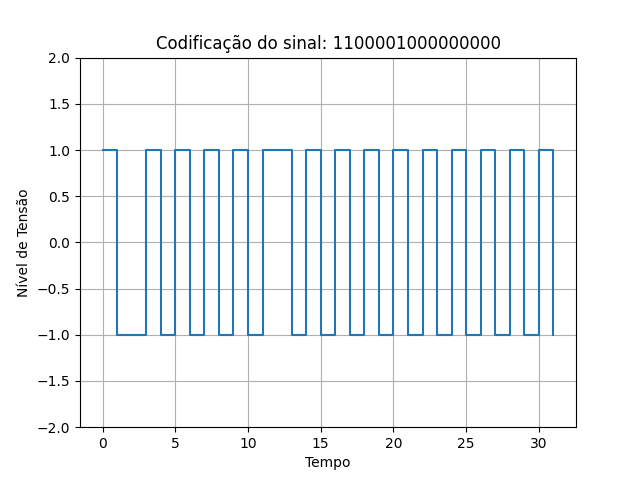
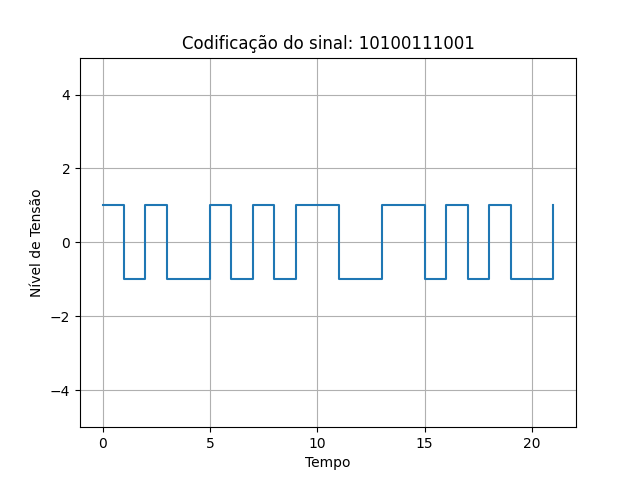
added the last line codes

diff --git a/Trabalho1/main.py b/Trabalho1/main.py
@@ -1,7 +1,7 @@
-from codificadores import b8zs, nrz_l, nrz_i, ami, pseudoternary, manchester, manchester_differential, hdb3, mlt_3
+from codificadores import b8zs, nrz_l, nrz_i, ami, pseudoternary, manchester, manchester_differential, hdb3, mlt_3, ternary_nrz, unipolar_rz
 from plot import plot_sinal
 
-bits = "1100001000000000"
+bits = "10100111001"
 sinal_b8zs = b8zs(bits)
 sinal_nrzl = nrz_l(bits)
 sinal_nrzi = nrz_i(bits)
@@ -11,6 +11,8 @@ sinal_man = manchester(bits)
 sinal_man_diff = manchester_differential(bits)
 sinal_hdb3 = hdb3(bits)
 sinal_mlt3 = mlt_3(bits)
+sinal_tnrz = ternary_nrz(bits)
+sinal_unipolar = unipolar_rz(bits)
 
 plot_sinal(sinal_b8zs, bits, 'B8ZS')
 plot_sinal(sinal_nrzl, bits, 'NRZ - L')
@@ -21,3 +23,5 @@ plot_sinal(sinal_man, bits, 'MANCHESTER')
 plot_sinal(sinal_man_diff, bits, 'MANCHESTER DIFFERENTIAL')
 plot_sinal(sinal_hdb3, bits, 'HDB3')
 plot_sinal(sinal_mlt3, bits, 'MLT - 3')
+plot_sinal(sinal_tnrz, bits, 'Ternary NRZ')
+plot_sinal(sinal_unipolar,bits, 'UNIPOLAR RZ')

diff --git a/Trabalho1/codificadores.py b/Trabalho1/codificadores.py
@@ -126,6 +126,35 @@ def mlt_3(bits: str) -> list[int]:
         result.append(levels[state_index])
     return result
 
+def ternary_nrz(data: str) -> list[int]:
+    result = []
+    last_level = 0
+
+    for bit in data:
+        if bit == '0':
+            if last_level >= 0:
+                last_level = -1
+            else:
+                last_level = 0
+        else:
+            if last_level <= 0:
+                last_level = 1
+            else:
+                last_level = 0
+        result.append(last_level)
+    return result
+
+def unipolar_rz(data: str) -> list[int]:
+
+    result = []
+
+    for bit in data:
+        if bit == '1':
+            result.extend([1, 0])
+        else: 
+            result.extend([0, 0])
+    
+    return result
 
 """ 
     NRZ-L - WORKING
@@ -143,5 +172,11 @@ def mlt_3(bits: str) -> list[int]:
     b8zs - WORKING 
 
     hdb3 - WORKING
+
+    unipolar - WORKING
+
+    ternary - WORKING
+
+    mlt 3 WORKING
 
 """

diff --git a/Trabalho1/plot.py b/Trabalho1/plot.py
@@ -3,7 +3,7 @@ import matplotlib.pyplot as plt
 def plot_sinal(sinal, bits, name):
     tempo = list(range(len(sinal)))
     plt.step(tempo, sinal, where='post')
-    plt.ylim(-2, 2)
+    plt.ylim(-5, 5)
     plt.grid()
     plt.title(f'Codificação do sinal: {bits}')
     plt.xlabel('Tempo')
